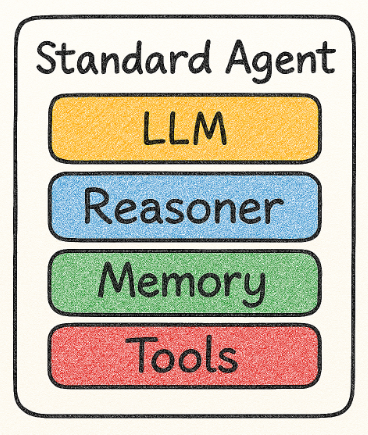
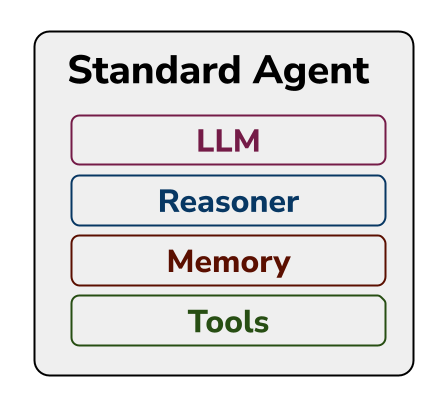
Update README with improved content and structure
- Enhanced project description and value proposition
- Added detailed architecture section explaining composable design
- Improved quick start instructions and configuration guidance
- Updated reasoner strategy descriptions with arxiv references
- Clarified explicit vs implicit reasoning approaches
- Expanded roadmap with community contribution focus
- Fixed typos and improved formatting throughout
- Simplified count_code_lines.py and renamed to loc.py
- Updated .gitignore to remove reference to old script
- Optimized architecture diagram file size

diff --git a/loc.py b/loc.py
@@ -1,0 +1,122 @@
+#!/usr/bin/env python3
+"""
+Script to count lines of code in Python files.
+"""
+
+import ast
+import os
+from typing import Set, Tuple
+
+
+def get_excluded_lines(source_code: str) -> Set[int]:
+    """Get line numbers for docstrings and multi-line strings."""
+    try:
+        tree = ast.parse(source_code)
+    except SyntaxError:
+        return set()
+    
+    excluded_lines = set()
+    
+    def visit_node(node):
+        # Check for docstrings
+        if isinstance(node, (ast.FunctionDef, ast.ClassDef, ast.Module, ast.AsyncFunctionDef)):
+            if (node.body and 
+                isinstance(node.body[0], ast.Expr) and 
+                isinstance(node.body[0].value, ast.Constant) and 
+                isinstance(node.body[0].value.value, str)):
+                docstring_node = node.body[0].value
+                start_line = docstring_node.lineno
+                end_line = docstring_node.end_lineno if hasattr(docstring_node, 'end_lineno') else start_line
+                excluded_lines.update(range(start_line, end_line + 1))
+        
+        # Check for multi-line strings
+        if isinstance(node, ast.Constant) and isinstance(node.value, str):
+            if '\n' in node.value or (hasattr(node, 'end_lineno') and node.end_lineno > node.lineno):
+                start_line = node.lineno
+                end_line = node.end_lineno if hasattr(node, 'end_lineno') else start_line
+                excluded_lines.update(range(start_line, end_line + 1))
+        
+        for child in ast.iter_child_nodes(node):
+            visit_node(child)
+    
+    visit_node(tree)
+    return excluded_lines
+
+
+def count_lines(file_path: str) -> Tuple[int, int]:
+    """Count lines in a Python file. Returns: (total_lines, code_lines)"""
+    try:
+        with open(file_path, 'r', encoding='utf-8') as f:
+            lines = f.readlines()
+    except (UnicodeDecodeError, IOError):
+        return 0, 0
+    
+    source_code = ''.join(lines)
+    excluded_lines = get_excluded_lines(source_code)
+    
+    total_lines = len(lines)
+    code_lines = 0
+    
+    for i, line in enumerate(lines, 1):
+        stripped_line = line.strip()
+        
+        # Skip empty lines, comments, and excluded lines
+        if not stripped_line or stripped_line.startswith('#') or i in excluded_lines:
+            continue
+            
+        code_lines += 1
+    
+    return total_lines, code_lines
+
+
+def find_python_files(root_dir: str) -> list[str]:
+    """Find all Python files, excluding common directories."""
+    python_files = []
+    exclude_dirs = {'.venv', '__pycache__', '.git', '.pytest_cache', '.mypy_cache', '.ruff_cache', '.ropeproject', 'examples', 'tests'}
+    script_name = os.path.basename(__file__)
+    
+    for root, dirs, files in os.walk(root_dir):
+        dirs[:] = [d for d in dirs if d not in exclude_dirs]
+        
+        for file in files:
+            if file.endswith('.py') and file != script_name:
+                python_files.append(os.path.join(root, file))
+    
+    return sorted(python_files)
+
+
+def main():
+    project_root = os.path.dirname(os.path.abspath(__file__))
+    python_files = find_python_files(project_root)
+    
+    print("Ignoring directories: .venv, __pycache__, .git, .pytest_cache, .mypy_cache, .ruff_cache, .ropeproject, examples, tests")
+    print("Ignoring files: this script\n")
+    
+    total_files = 0
+    total_lines = 0
+    total_code = 0
+    
+    print(f"{'File':<60} {'Total':<8} {'Code':<8}")
+    print("-" * 76)
+    
+    for file_path in python_files:
+        if os.path.exists(file_path):
+            file_total, file_code = count_lines(file_path)
+            total_files += 1
+            total_lines += file_total
+            total_code += file_code
+            
+            rel_path = os.path.relpath(file_path, project_root)
+            print(f"{rel_path:<60} {file_total:<8} {file_code:<8}")
+    
+    print("-" * 76)
+    print(f"{'TOTAL':<60} {total_lines:<8} {total_code:<8}")
+    print(f"\nSummary:")
+    print(f"Total Python files: {total_files}")
+    print(f"Total lines: {total_lines}")
+    print(f"Empty/comment/multi-line string lines: {total_lines - total_code}")
+    print(f"Core Lines of Code: {total_code}")
+
+
+if __name__ == "__main__":
+    main()

diff --git a/README.md b/README.md
@@ -17,9 +17,21 @@
 
 ## Architecture Overview
 
-Standard Agent is a simple, modular library for building AI agents—with a composable core and plug‑in components.
+*Standard Agent* is a simple, modular library for building AI agents, with a composable core and plug‑in components. 
+
+It is *not* a complete agent with a nice user interface. It is a library that provides the core agent reasoning loop that bridges an LLM with tools, featuring a flexible design that allows you to swap out different LLMs, reasoning strategies, memory backends, and tool providers. A basic example CLI interface is provided, but you will generally have to provide your own system prompt, tool set and UI. [Jentic](https://jentic.com) can help with the tool set, but you can also roll your own.
 
 ![Standard Agent architecture](docs/assets/standard_agent_architecture.png)
+
+It is deliberately small so it can be easily read and understood (whether by you or your coding agent), and used with confidence. This is a *less is more* approach to agent development.  You can browse it to understand how agents work. You can use it to quickly build your own agents, skipping the boilerplate and focusing on business logic. 
+
+*Standard Agent* excels when equipped with just-in-time tool loading, a paradigm that we advocate at [Jentic](https://jentic.com). This means dynamically loading (or "late-binding") tools at run-time depending on the specific goal or task at hand. This permits better context engineering, keeping the context uncluttered and the LLM focused on the tool details that matter, while eliminating practical limits on the number of tools that can be provided (here's a [blog post](https://jentic.com/blog/just-in-time-tooling) on the topic).
+
+We hope the community will benefit from *Standard Agent* in the following wyas:
+- A common project for reference implementations of common reasoning strategies (ReACT, ReWOO, LATS etc.)
+- An easy way to experiment with variations on reasoning strategies or new approaches
+- A way to perform apple-to-apple comparisons and evaluations of different reasoning strategies
+- An easy upgrade path for agents as better reasoning strategies emerge.
 
 
 ## Quick Start
@@ -44,27 +56,27 @@ python examples/cli_rewoo_api_agent.py
 
 Before running the agent, you need to create a `.env` file in the root of the project to store your API keys and other secrets. The application will automatically load these variables.
 
-**Quick Setup:**
+#### Quick Setup:
 1. Copy the provided template: `cp .env.example .env`
 2. Edit the `.env` file and replace placeholder values with your actual API keys
 3. At minimum, you need one LLM provider key to get started
-4. Add JENTIC_API_KEY for out-of-the-box tool access (recommended)
+4. Add `JENTIC_API_KEY`á for out-of-the-box tool access (recommended)
 
 See [.env.example](./.env.example) for the complete configuration template with detailed comments and setup instructions.
 
-**Key Requirements:**
+#### Key Requirements:
 - **LLM Model**: `LLM_MODEL` - Choose your preferred model
 - **LLM Provider**: At least one API key (Anthropic, OpenAI, or Google)
-- **Tool Provider**: `JENTIC_AGENT_API_KEY` for instant access to 1500+ tools (get yours at [app.jentic.com](https://app.jentic.com))
+- **Tool Provider**: `JENTIC_API_KEY` for turn-key access to capabilities based on 1500+ APIs (get yours at [jentic.com](https://jentic.com))
 
 
 ### Usage Examples
 
-We provide two ways to use the agent library: a quick-start method using a pre-built agent, and a more advanced method that shows how to build an agent from scratch.
+*Standard Agent* includes pre-built agent classes for a quick-start, but you can also compose your own agent from scratch. Both approaches are shown below.
 
 #### 1. Quick Start: Running a Pre-built Agent
 
-This is the fastest way to get started. The `ReWOOAgent` and `ReACTAgent` classes provide `StandardAgent` instances that are already configured with a reasoner, LLM, tools, and memory.
+This is the fastest way to get started. `ReWOOAgent` and `ReACTAgent` are subclasses of `StandardAgent` that are pre-configured with a reasoner, LLM, tools, and memory.
 
 ```python
 # examples/cli_api_agent.py
@@ -98,9 +110,9 @@ while True:
         break
 ```
 
-#### 2. Custom Agent Composition: Build Your Own
+#### 2. Custom: Compose Your Own Agent
 
-The real power of Standard Agent comes from its **composable architecture**. Every component is swappable, allowing you to create custom agents tailored to your specific needs. Here's how to build agents from scratch by mixing and matching components.
+The real power of *Standard Agent* comes from its **composable architecture**. Every component is swappable, allowing you to create custom agents tailored to your specific needs, without reimplementing a lot of code. Here's how to build agents from scratch by mixing and matching components.
 
 ```python
 # main_build_your_own_agent.py
@@ -156,9 +168,9 @@ while True:
 ```
 ---
 
-**💡 Why This Matters**
+## Architecture
 
-This composition approach means you can:
+*Standard Agent* provides a composable architecture that allows you to swap out different LLMs, reasoning strategies, memory backends, and tool providers. This allows you to:
 
 - **Start simple** with pre-built agents like `ReWOOAgent`
 - **Gradually customize** by swapping individual components
@@ -166,7 +178,7 @@ This composition approach means you can:
 - **Extend incrementally** by implementing new components that follow the same interfaces
 - **Mix and match** components from different sources without breaking existing code
 
-The key insight is that each component follows well-defined interfaces (`BaseLLM`, `BaseMemory`, `JustInTimeToolingBase`, etc.), so they can be combined in any configuration that makes sense for your use case.
+Each component follows well-defined interfaces (`BaseLLM`, `BaseMemory`, `JustInTimeToolingBase`, etc.), so they can be combined in any configuration that makes sense for you.
 
 ### Project Layout
 
@@ -207,21 +219,21 @@ The key insight is that each component follows well-defined interfaces (`BaseLLM
 | **Goal Preprocessor** | `BaseGoalPreprocessor`                                            | [Optional] Preprocess goals before reasoning                      |
 
 
-### Reasoner Profiles
+### Reasoner Strategies
 
-The library ships two reasoner profiles:
+The library currently ships two reasoner strategies:
 
-- **ReWOOReasoner** (`agents/reasoner/rewoo.py`): Plan → Execute → Reflect
-- **ReACTReasoner** (`agents/reasoner/react.py`): Think → Act 
+- **ReWOOReasoner** (`agents/reasoner/rewoo.py`): Plan → Execute → Reflect  (arxiv [link](https://arxiv.org/abs/2305.18323))
+- **ReACTReasoner** (`agents/reasoner/react.py`): Think → Act (arxiv [link](https://arxiv.org/abs/2210.03629))
 
 Each profile exposes a `run(goal: str) -> ReasoningResult` and produces a `transcript`. The agent synthesizes the final answer from the transcript.
 
-Note on the reasoning spectrum:
+We note that there are broadly two ways to implement agentic reasoning:
 
-- "Explicit" reasoners externalize structure (plans, intermediate steps) for transparency and control. ReWOO is more explicit.
-- "Implicit" reasoners decide the next move with minimal externalized structure for speed and brevity. ReACT is more implicit.
+- "Explicit" reasoning explicitly implements the reasoning strategy in the code that calls the LLM. ReWOO is more explicit.
+- "Implicit" reasoning lets the LLM steer the reasoning strategy, informed only by the system prompt. ReACT is more implicit.
 
-We welcome contributions of new reasoning strategies anywhere on this spectrum. If you add a profile, keep it as a single-file `BaseReasoner` implementation and define its prompts in YAML under `agents/prompts/reasoners/`.
+We welcome contributions of new reasoning strategies anywhere on this spectrum. If you add a profile, please keep it as a single module that implements the `BaseReasoner` class and define its prompts in YAML under `agents/prompts/reasoners/`.
 
 ### Extending the Library
 
@@ -237,12 +249,13 @@ The library is designed to be modular. Here are some common extension points:
 
 
 ## Roadmap
+We welcome all help implementing parts of the roadmap, or contributing new ideas. We will merge anything we think makes sense in this core library, and will link to all other relevant work.
 
 - Additional pre-built reasoner implementations (ReAct, ToT, Graph-of-Thought)
 - More out of the box composable parts to enable custom agents or reasoner implementations
 - Web dashboard (live agent state + logs)
 - Vector-store memory with RAG planning
-- Slack / Discord integration
 - Redis / VectorDB memory
+- More advanced CLI example with local file system tools
 - Async agent loop & concurrency-safe inboxes
 - Ideas are welcome! [Open an issue](https://github.com/jentic/standard-agent/issues) or [submit a pull request](https://github.com/jentic/standard-agent/pulls).
